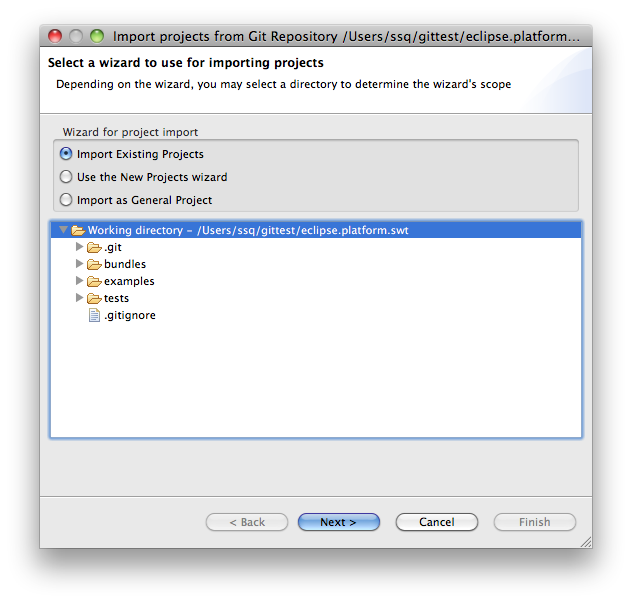
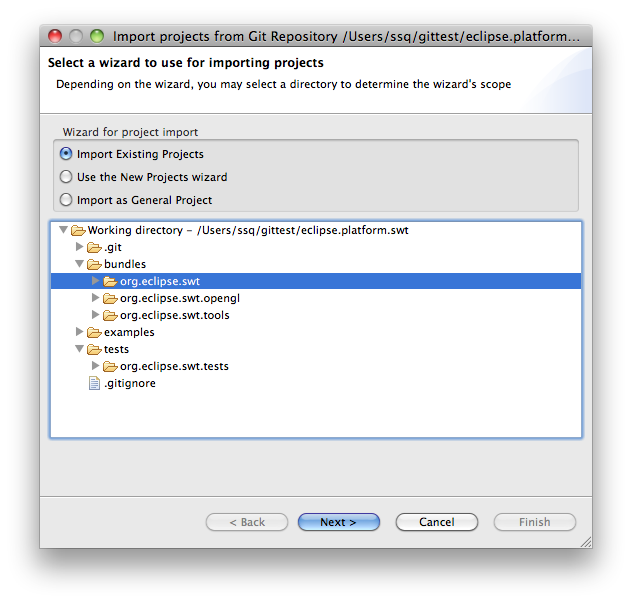
*** empty log message ***

Changed region(s): [[0.0601, 0.4478, 0.932, 0.6567], [0.0601, 0.3582, 0.932, 0.4179]]

diff --git a/git.php b/git.php
@@ -87,8 +87,10 @@ For committer access (substitute in proper userid):
 <li>Confirm the destination directory. Click Finish</li>
 </ol>
 </p>
-<h4>Adding an externally cloned SWT repo</h4>
+<h4>Alternative - Adding an externally cloned SWT repo</h4>
 <p>
+<b>Note: If you have cloned the repository with EGit you can skip this step. This step is just for people who
+have cloned a repo from the command line and want to import it. </b>
 <ol>
 <li>In the Git Repositories perspective, select the Add Git Repositories button</li>
 <li>Browse to the directory that contains the repo and click search.</li>
@@ -102,7 +104,10 @@ For committer access (substitute in proper userid):
 <li>Choose Import existing projects and click Next.
 <center><p><img src="images/egit.import.png" alt="Clone repo"></p></center>
 </li>
-<li>Select which projects you want to import and click Finish.
+<li>Select which projects you want to import and click Finish. Although you can import all projects from
+both repos, it might be better to select only the minimum set of projects you are interested in to keep
+your workspace small (for example, org.eclipse.swt and org.eclipse.swt.cocoa.macosx if you are doing Cocoa
+development).
 <center><p><img src="images/egit.import2.png" alt="Clone repo"></p></center>
 </li>
 </ol>
